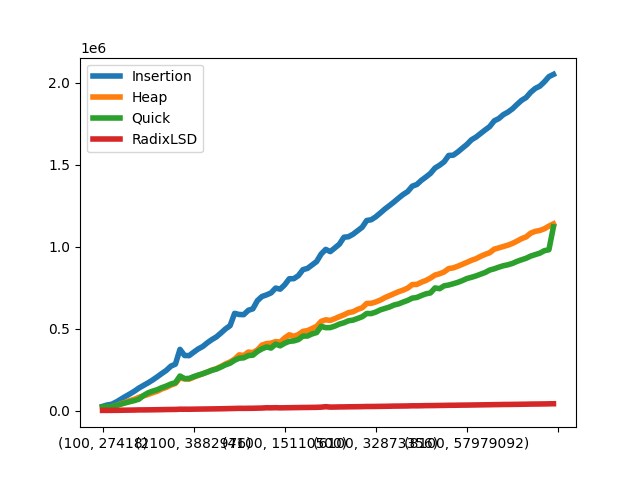
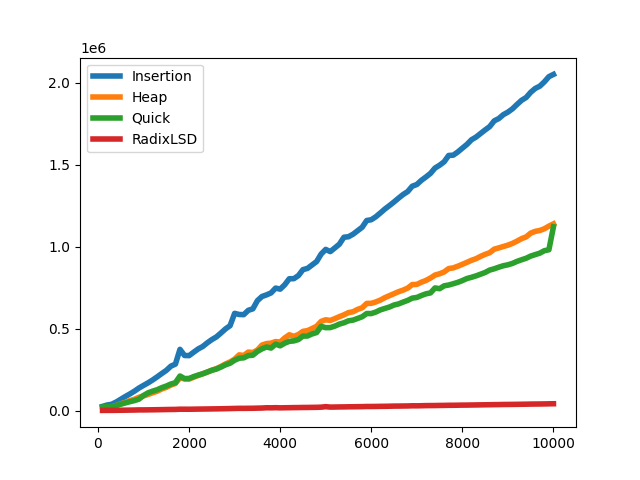
Created a Hybrid Sort, added few changes in all sorting algorithms and tested all sorting algorithms with test.cpp file

Changed region(s): [[0.0938, 0.9062, 0.9062, 0.9375]]

diff --git a/main.cpp b/main.cpp
@@ -8,6 +8,7 @@
 #include "HeapSort.hpp"
 #include "QuickSort.hpp"
 #include "RadixSort.hpp"
+#include "HybridSort.hpp"
 
 using ns = std::chrono::nanoseconds;
 
@@ -27,12 +28,12 @@ std::vector<int> generateRandomList(int size) {
    return list;
 }
 
-ns calculateSorting(std::vector<int>& list, void(*sortingAlgorithm)(std::vector<int>&)) {
+ns calculateSorting(std::vector<int>& list, void(*sortingAlgorithm)(std::vector<int>&, int, int)) {
    std::vector<int> copy(list.size());
    std::copy(list.begin(), list.end(), copy.begin());
 
    auto start = std::chrono::steady_clock::now();
-   sortingAlgorithm(copy);
+   sortingAlgorithm(copy, 0, copy.size() - 1);
    auto end = std::chrono::steady_clock::now();
 
    return std::chrono::duration_cast<ns>(end - start);
@@ -41,6 +42,9 @@ ns calculateSorting(std::vector<int>& list, void(*sortingAlgorithm)(std::vector<
 void runMeasurement(int sizeStep, int maxSize, int maxTimes, std:: ofstream& file_out) {
    file_out << "Size Insertion Heap Quick RadixLSD InsertionSorted HeapSorted QuickSorted RadixLSDSorted InsertionEqual HeapEqual QuickEqual RadixLSDEqual InsertionReversed HeapReversed QuickReversed RadixLSDReversed" << std:: endl; 
    for (int size = sizeStep; size <= maxSize; size += sizeStep) {
+      if (size == 100) {
+         sizeStep = 100;
+      }
       ns total_time_insertion = ns(0);
       ns total_time_heap = ns(0);
       ns total_time_quick = ns(0);
@@ -67,7 +71,7 @@ void runMeasurement(int sizeStep, int maxSize, int maxTimes, std:: ofstream& fil
          total_time_insertion += calculateSorting(list, insertionSort);
          total_time_heap += calculateSorting(list, heapSort);
          total_time_quick += calculateSorting(list, quickSort);
-         total_time_radix += calculateSorting(list, radixSortLSD);
+         total_time_radix += calculateSorting(list, radixSort);
          
          for (int i = 0; i < size; ++i) {
             list[i] = i;
@@ -76,14 +80,14 @@ void runMeasurement(int sizeStep, int maxSize, int maxTimes, std:: ofstream& fil
          total_time_insertion_sorted += calculateSorting(list, insertionSort);
          total_time_heap_sorted += calculateSorting(list, heapSort);
          total_time_quick_sorted += calculateSorting(list, quickSort);
-         total_time_radix_sorted += calculateSorting(list, radixSortLSD);
+         total_time_radix_sorted += calculateSorting(list, radixSort);
 
          std::reverse(list.begin(), list.end());
 
          total_time_insertion_reversed += calculateSorting(list, insertionSort);
          total_time_heap_reversed += calculateSorting(list, heapSort);
          total_time_quick_reversed += calculateSorting(list, quickSort);
-         total_time_radix_reversed += calculateSorting(list, radixSortLSD);
+         total_time_radix_reversed += calculateSorting(list, radixSort);
 
          for (int i = 0; i < size; ++i) {
             list[i] = 1;
@@ -92,7 +96,7 @@ void runMeasurement(int sizeStep, int maxSize, int maxTimes, std:: ofstream& fil
          total_time_insertion_equal += calculateSorting(list, insertionSort);
          total_time_heap_equal += calculateSorting(list, heapSort);
          total_time_quick_equal += calculateSorting(list, quickSort);
-         total_time_radix_equal += calculateSorting(list, radixSortLSD);
+         total_time_radix_equal += calculateSorting(list, radixSort);
 
          
       }
@@ -113,7 +117,7 @@ void runMeasurement(int sizeStep, int maxSize, int maxTimes, std:: ofstream& fil
          << total_time_insertion_reversed.count() / maxTimes << " "
          << total_time_heap_reversed.count() / maxTimes << " "
          << total_time_quick_reversed.count() / maxTimes << " "
-         << total_time_radix_reversed.count() / maxTimes << " "
+         << total_time_radix_reversed.count() / maxTimes
          << std::endl;
    }
 }
@@ -121,9 +125,9 @@ void runMeasurement(int sizeStep, int maxSize, int maxTimes, std:: ofstream& fil
 int main() {
    const int maxSize = 10000;
    const int maxTimes = 100;
-   const int sizeStep = 100;
+   const int sizeStep = 10;
 
-   std::ofstream file_out("results3.txt");
+   std::ofstream file_out("results.txt");
    if (!file_out.is_open()) {
       std::cerr << "Error opening file." << std::endl;
       return 1;

diff --git a/test.cpp b/test.cpp
@@ -6,6 +6,7 @@
 #include "InsertionSort.hpp"
 #include "QuickSort.hpp"
 #include "HeapSort.hpp"
+#include "HybridSort.hpp"
 #include "RadixSort.hpp"
 #include "CountingSort.hpp"
 
@@ -17,7 +18,7 @@ std:: ostream& operator<<(std:: ostream& output, std:: vector<int> arr) {
 }
 
 
-void runTestCases(void(*sortingAlgorithm)(std::vector<int>&)) {
+void runTestCases(void(*sortingAlgorithm)(std::vector<int>&, int, int)) {
    std::map<std::vector<int>, std::vector<int>> testCases = {
       {{4, 11, 3, 6, 0, 1, 8, 5}, {0, 1, 3, 4, 5, 6, 8, 11}},
       {{0, 3, 9400, 230, 430, 2, 0}, {0, 0, 2, 3, 230, 430, 9400}},
@@ -31,7 +32,7 @@ void runTestCases(void(*sortingAlgorithm)(std::vector<int>&)) {
       std::vector<int> input = testCase.first;
       std::vector<int> expected = testCase.second;
       
-      sortingAlgorithm(input);
+      sortingAlgorithm(input, 0, input.size() - 1);
       
       std::cout << input << std::endl;
       assert(input == expected);
@@ -42,18 +43,12 @@ void runTestCases(void(*sortingAlgorithm)(std::vector<int>&)) {
 
 int main() {
    
-   std:: vector<int> arr = { 2, 1, 1, 3, 4, 8, 6, 0, 5, 4 };
+   runTestCases(quickSort); // running test cases on Quick Sort
+   runTestCases(heapSort); // running test cases on Heap Sort
+   runTestCases(insertionSort); // running test cases on Insertion Sort
+   runTestCases(radixSort); // running test cases on RadixSort
+   runTestCases(hybridSort); // running test cases on Radix LSD(Least Significant Digit) Sort
 
-   quickSort(arr);
-
-   assert(std::is_sorted(arr.begin(), arr.end()));
-   /*
-   runTestCases('q'); // running test cases on Quick Sort
-   runTestCases('h'); // running test cases on Heap Sort
-   runTestCases('i'); // running test cases on Insertion Sort
-   runTestCases('b'); // running test cases on Insertion Sort with Binary Search
-   runTestCases('r'); // running test cases on Radix LSD(Least Significant Digit) Sort
-   */
 
    return 0;
 }

diff --git a/graphs/graph.py b/graphs/graph.py
@@ -10,26 +10,26 @@ with open("data", "r") as file:
         print(file.readline())
 
 data = pd.read_csv("data", delimiter=' ')
-#data = data.set_index("N")
+data = data.set_index("N")
 
 print("Loaded data:")
 print(data.head())
 
-data[["Insertion", "Heap", "Quick", "RadixLSD"]].plot(linewidth=4)
+# data[["Insertion", "Heap", "Quick", "RadixLSD"]].plot(linewidth=4)
 
-plt.savefig("full.png")
+# plt.savefig("full.png")
 
-data[["InsertionSorted", "HeapSorted", "QuickSorted", "RadixLSDSorted"]].plot(linewidth=4)
+# data[["InsertionSorted", "HeapSorted", "QuickSorted", "RadixLSDSorted"]].plot(linewidth=4)
 
-plt.savefig("full_sorted.png")
+# plt.savefig("full_sorted.png")
 
-data[["InsertionEqual", "HeapEqual", "QuickEqual", "RadixLSDEqual"]].plot(linewidth=4)
+# data[["InsertionEqual", "HeapEqual", "QuickEqual", "RadixLSDEqual"]].plot(linewidth=4)
 
-plt.savefig("full_equal.png")
+# plt.savefig("full_equal.png")
 
-data[["InsertionReversed", "HeapReversed", "QuickReversed", "RadixLSDReversed"]].plot(linewidth=4)
+# data[["InsertionReversed", "HeapReversed", "QuickReversed", "RadixLSDReversed"]].plot(linewidth=4)
 
-plt.savefig("full_reversed.png")
+# plt.savefig("full_reversed.png")
 
 # small = data[:15]
 

diff --git a/RadixSort.hpp b/RadixSort.hpp
@@ -26,11 +26,39 @@ std::vector<int> countingSortDigit(std::vector<int>& list, int exp) {
     return output;
 }
 
-void radixSortLSD(std::vector<int>& list) {
+void radixSortLSD(std::vector<int>& list, int left, int right) {
     int maxNum = *std::max_element(list.begin(), list.end());
     for (int exp = 1; maxNum / exp > 0; exp *= 10) {
         list = countingSortDigit(list, exp);
     }
 }
+
+std::vector<int> countingSortByBit(std::vector<int>& list, int mask, int shift) {
+   int arr[2] = {0, 0};
+
+   for (int value: list) {
+      arr[(value & mask) >> shift] += 1;
+   }
+
+   arr[1] = list.size();
+
+   std::vector<int> res(list.size());
+
+   for (int i = list.size() - 1; i >= 0; --i) {
+        res[--arr[(list[i] & mask) >> shift]] = list[i];
+    }
+
+   return res;
+}
+
+void radixSort(std::vector<int>& list, int left, int right) {
+   int maxNum = *std::max_element(list.begin(), list.end());
+   int shift = 0;
+   for (int mask = 1; mask <= maxNum; mask *= 2) {
+      list = countingSortByBit(list, mask, shift);
+      shift++; 
+   }
+}
+
 
 #endif

diff --git a/InsertionSort.hpp b/InsertionSort.hpp
@@ -17,19 +17,6 @@ int binarySearch(std::vector<int> list, int key, int left, int right) {
    return left;
 }
 
-void insertionSort(std::vector<int>& list) {
-   int n = list.size();
-   for (int i = 1; i < n; ++i) {
-      int x = list[i];
-      int j = i;
-      while (j > 0 && list[j - 1] > x) {
-         list[j] = list[j - 1];
-         --j;
-      }
-      list[j] = x;
-   }
-}
-
 void insertionSortWithBinSearch(std::vector<int>& list) {
    int n = list.size();
    for (int i = 1; i < n; i++) {
@@ -41,6 +28,18 @@ void insertionSortWithBinSearch(std::vector<int>& list) {
       }
 
       list[k] = key;
+   }
+}
+
+void insertionSort(std::vector<int>& list, int left, int right) {
+   for (int i = left; i <= right; ++i) {
+      int x = list[i];
+      int j = i;
+      while (j > 0 && list[j - 1] > x) {
+         list[j] = list[j - 1];
+         --j;
+      }
+      list[j] = x;
    }
 }
 

diff --git a/QuickSort.hpp b/QuickSort.hpp
@@ -34,16 +34,13 @@ int partition(std::vector<int>& list, int left, int right) {
    return j;
 }
 
-void quickSortRun(std::vector<int>& list, int left, int right) {
+void quickSort(std::vector<int>& list, int left, int right) {
    if (left < right) {
       int q = partition(list, left, right);
-      quickSortRun(list, left, q);
-      quickSortRun(list, q + 1, right);
+      quickSort(list, left, q);
+      quickSort(list, q + 1, right);
    }
 }
 
-void quickSort(std:: vector<int>& list) {
-   quickSortRun(list, 0, list.size() - 1);
-}
 
 #endif

diff --git a/HeapSort.hpp b/HeapSort.hpp
@@ -28,7 +28,7 @@ void buildHeap(std:: vector<int>& list) {
    }
 }
 
-void heapSort(std:: vector<int>& list) {
+void heapSort(std:: vector<int>& list, int left, int right) {
    buildHeap(list);
    int heapSize = list.size(), n = list.size();
    for (int i = 0; i < n - 1; i++) {
